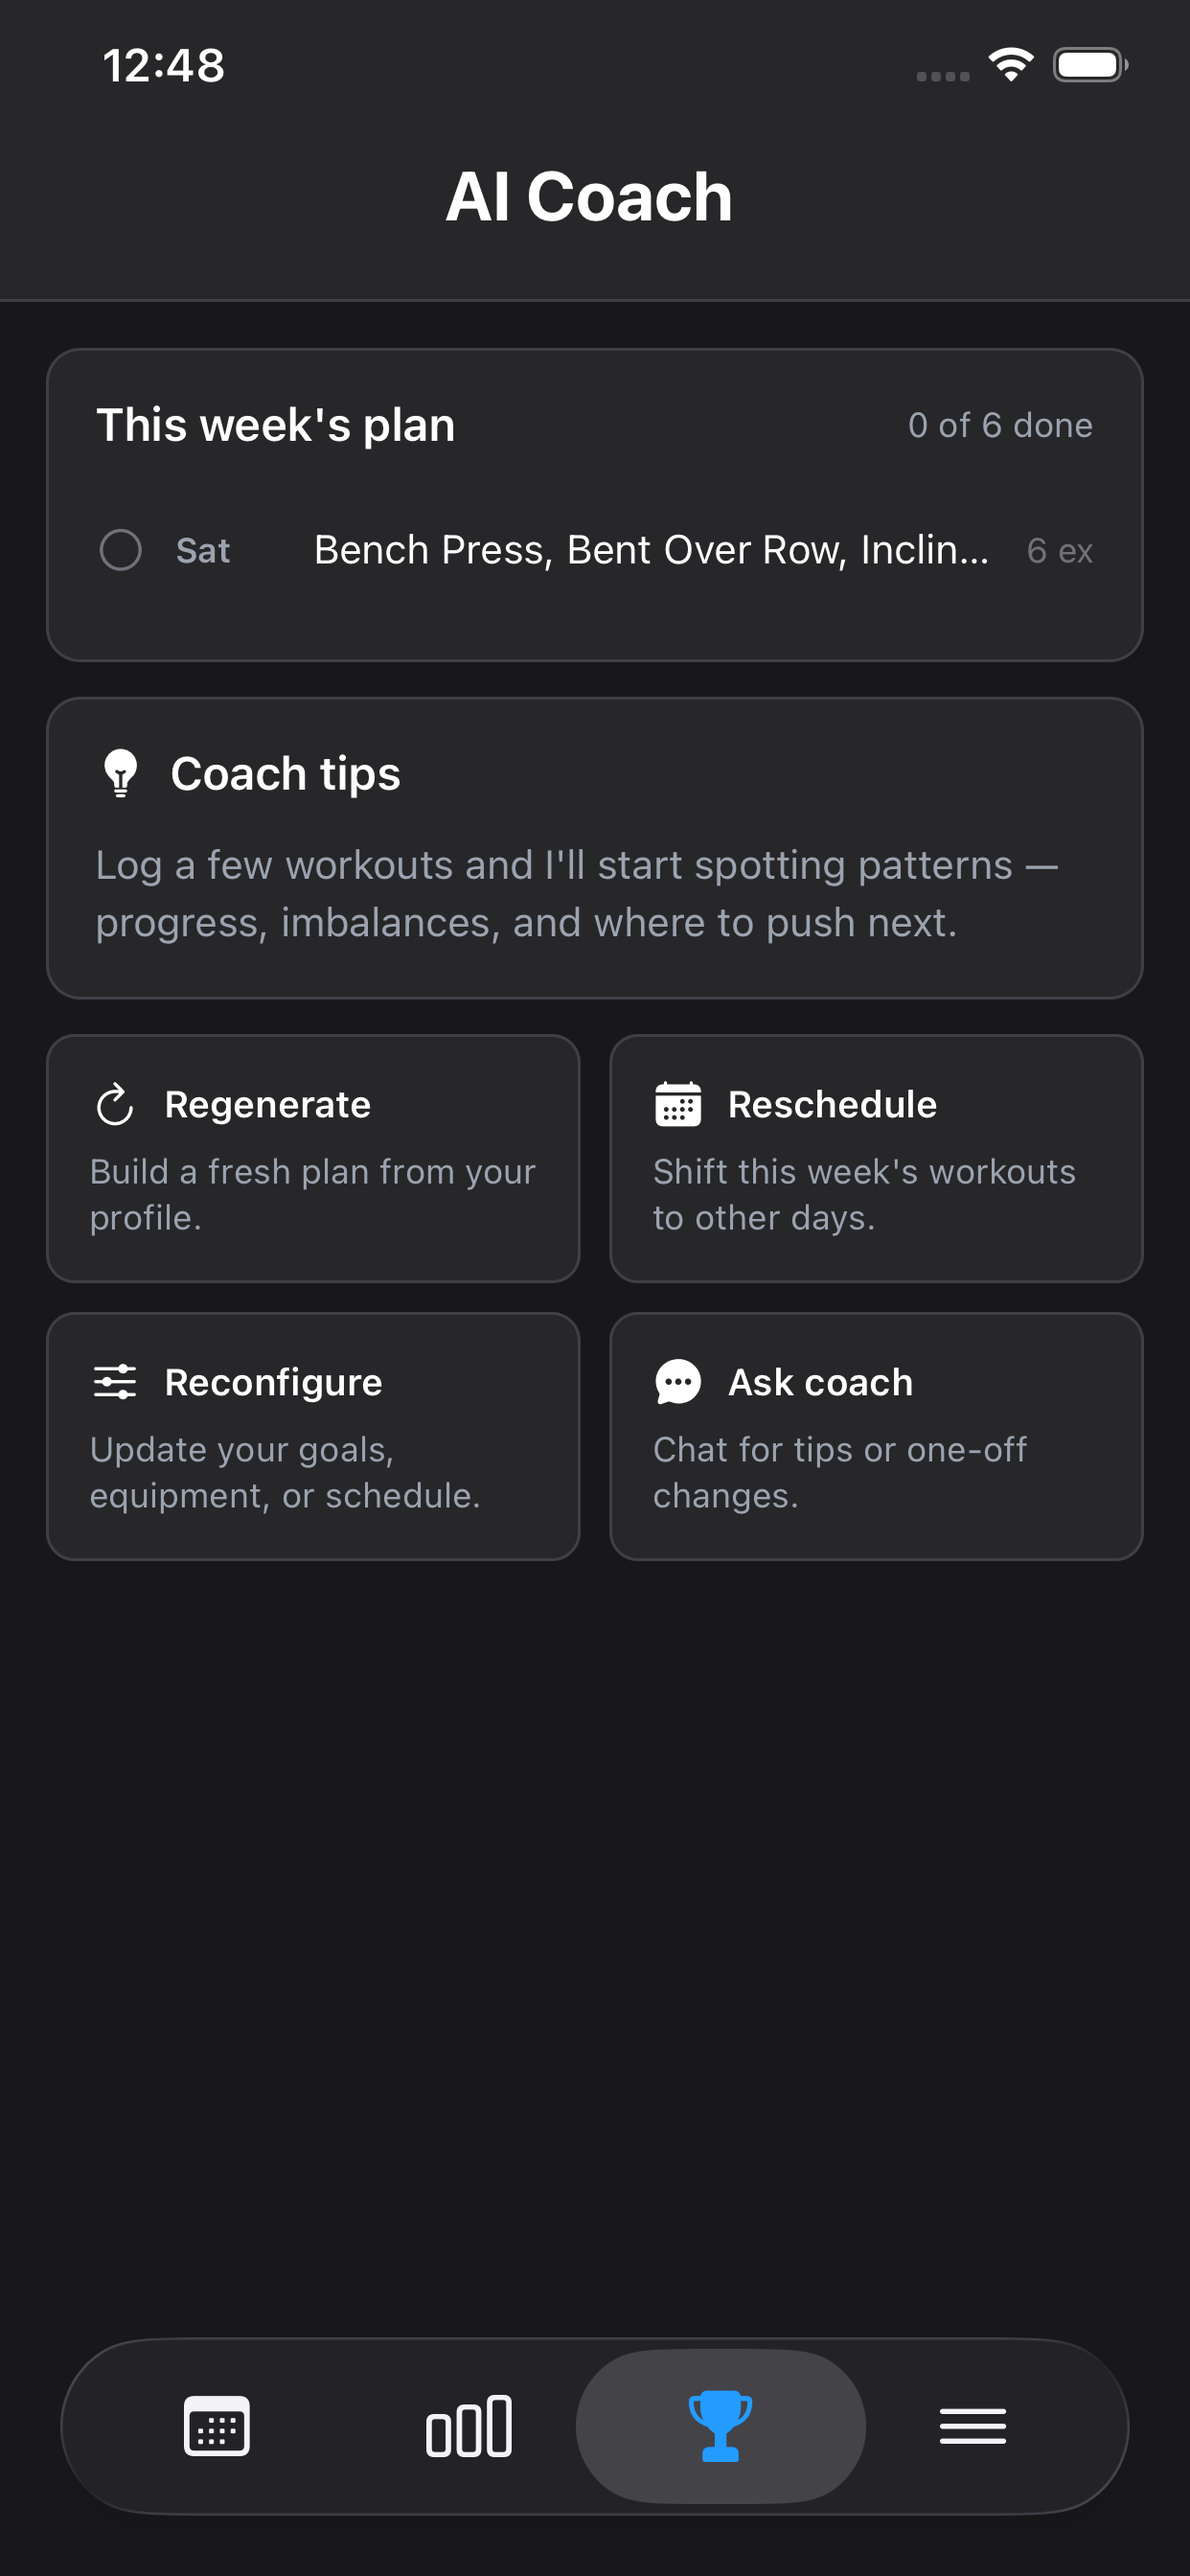
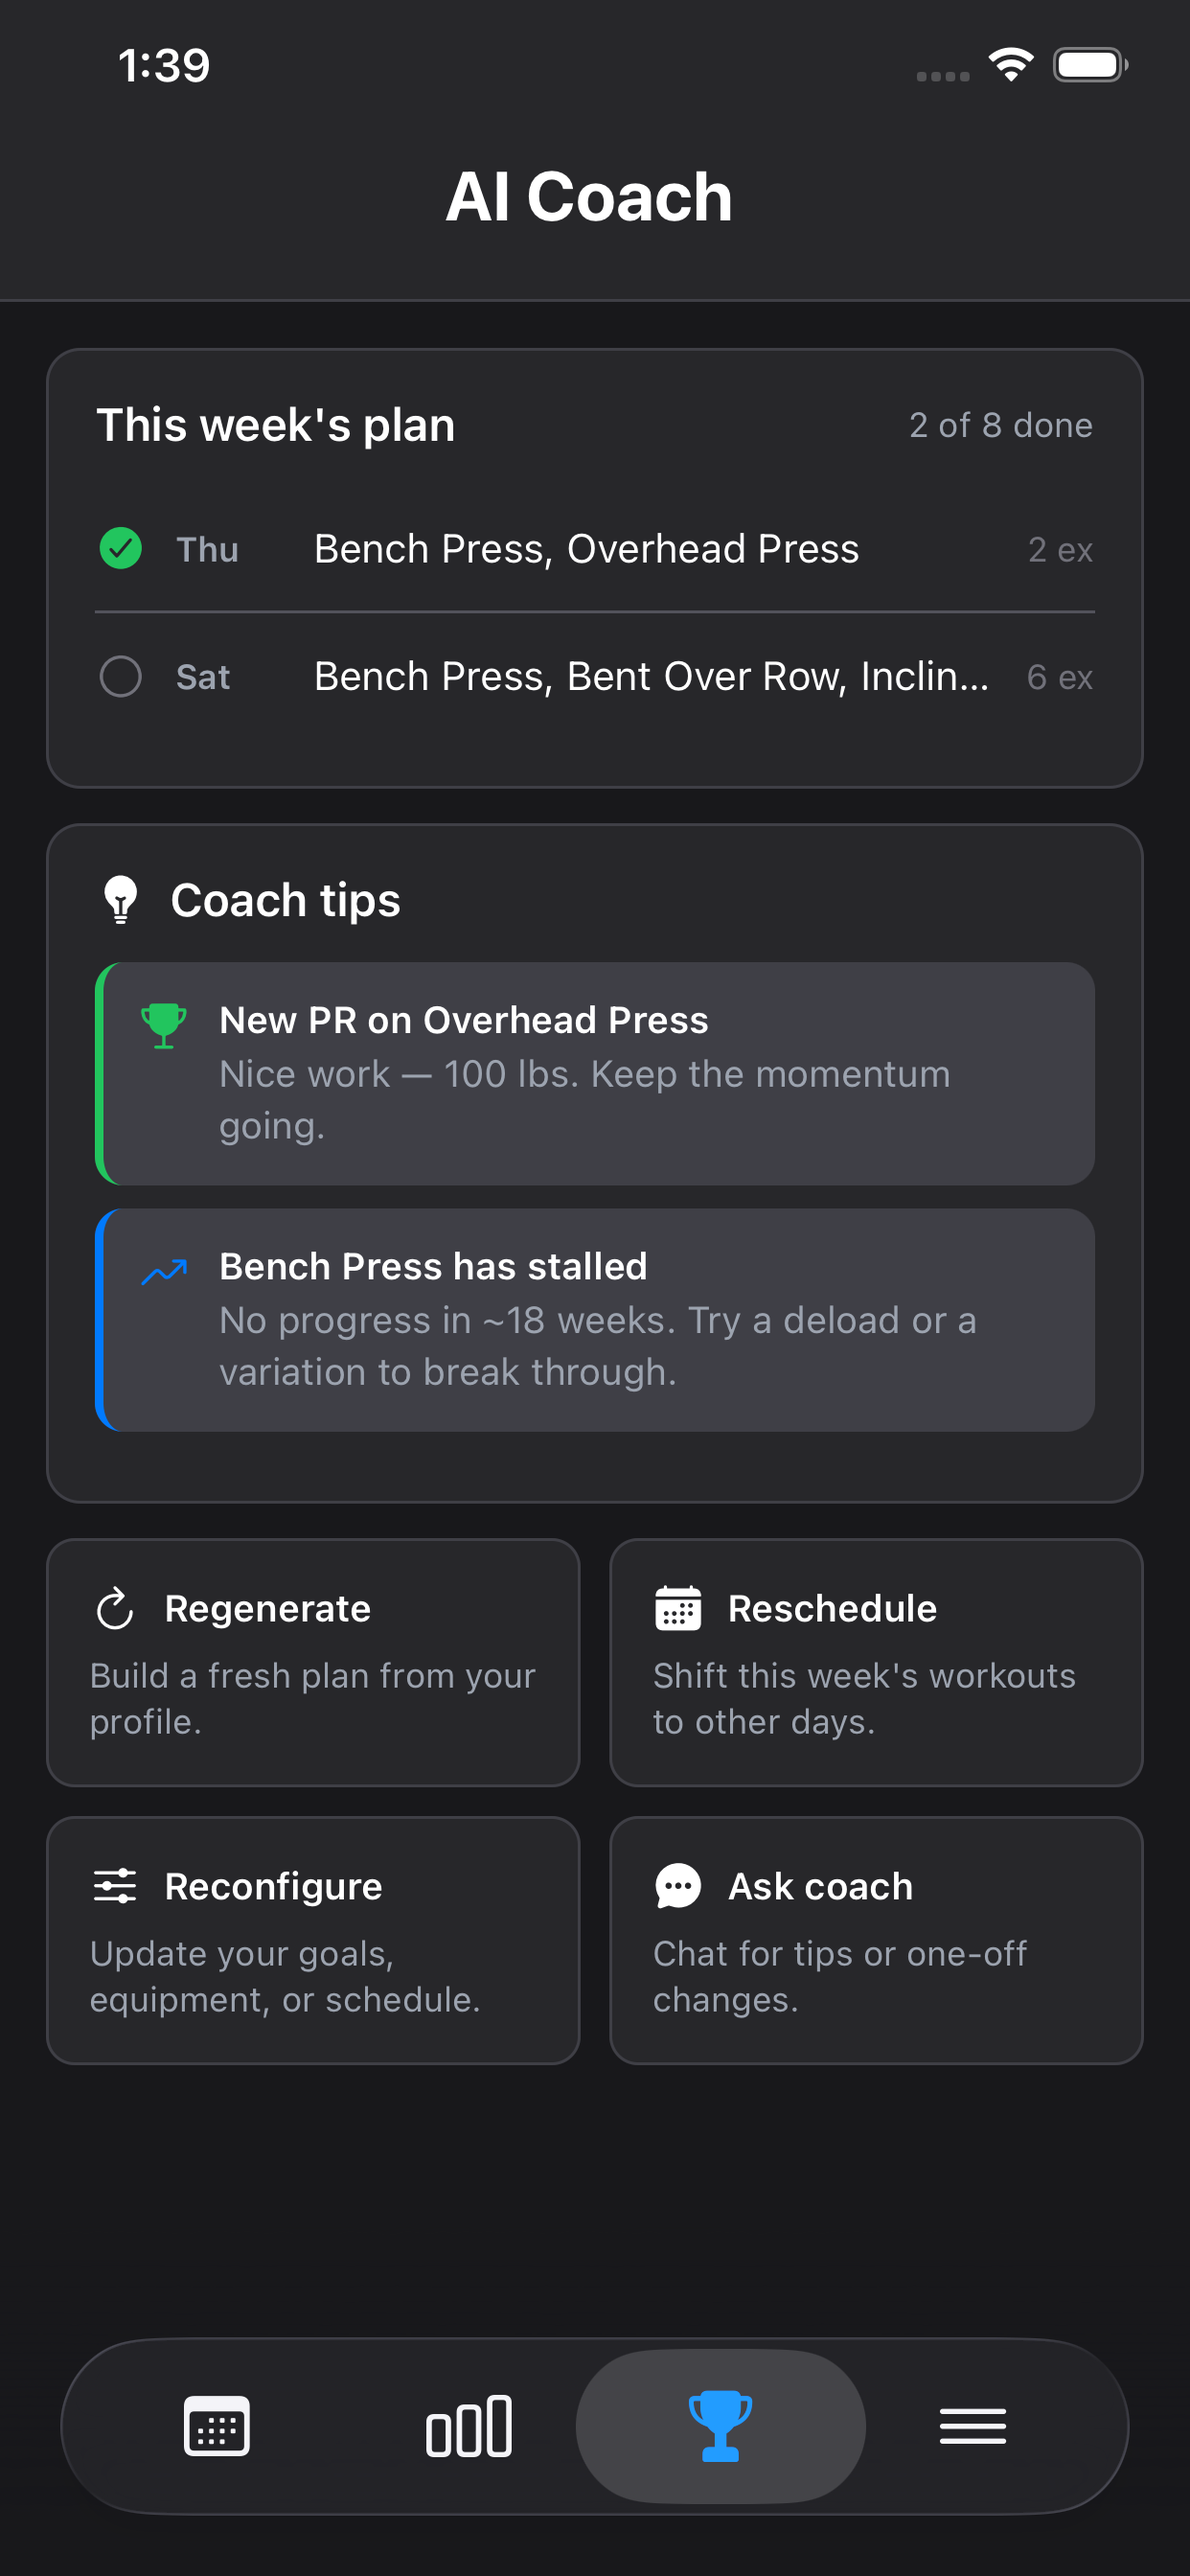
Expand Rhythm Fit product story

diff --git a/app/work/rhythm-fit/page.tsx b/app/work/rhythm-fit/page.tsx
@@ -57,9 +57,9 @@ const RhythmFitCaseStudy = () => {
             deterministic UI turns the proposal into editable product state.
           </p>
           <RhythmScreenshot
-            id="calendar"
-            alt="Rhythm Fit calendar populated by the AI planner"
-            caption="The model returns a structured tool call; validated application code expands it into dated, editable workout records in the same Redux model used by manual scheduling."
+            id="intake"
+            alt="Rhythm Fit review screen for an AI-generated workout plan"
+            caption="An editable review step makes every planning input visible before generation—goals, experience, schedule, plan length, equipment, and freeform constraints—so personalization feels inspectable rather than magical."
           />
         </CaseSection>
 
@@ -104,6 +104,26 @@ const RhythmFitCaseStudy = () => {
             id="execution"
             alt="Rhythm Fit workout execution screen"
             caption="After a connected coach creates the plan, execution is local-first: set completion updates Redux and AsyncStorage immediately, then syncs in the background."
+          />
+        </CaseSection>
+
+        <CaseSection title="Progress becomes useful feedback">
+          <p>
+            Completed workouts feed a dashboard of personal records, volume,
+            frequency, consistency, muscle-group balance, and exercise history.
+            Time-range controls let a lifter zoom from this week to their full
+            training history without changing the underlying mental model.
+          </p>
+          <p>
+            The same computed data powers coach tips. A new PR can become
+            encouragement; a stalled lift can become a concrete next action.
+            That closes the loop between logging and planning without asking
+            the user to maintain a second analytics workflow.
+          </p>
+          <RhythmScreenshot
+            id="stats"
+            alt="Rhythm Fit workout analytics with records, volume, and consistency"
+            caption="The dashboard derives PRs, completed sets and reps, volume trends, consistency, muscle distribution, and top exercises from the same activity records used during workout execution."
           />
         </CaseSection>
 

diff --git a/components/site/rhythm-feature-gallery.tsx b/components/site/rhythm-feature-gallery.tsx
@@ -77,7 +77,7 @@ const screens = [
     id: "coach-dashboard",
     alt: "Rhythm Fit AI Coach dashboard showing this week's generated plan",
     caption:
-      "The coach dashboard keeps the current plan, progress, and common adjustments in one place.",
+      "The coach dashboard combines the active plan with useful signals from training history: PRs, stalled lifts, and a direct path to ask for help.",
   },
   {
     id: "calendar",
